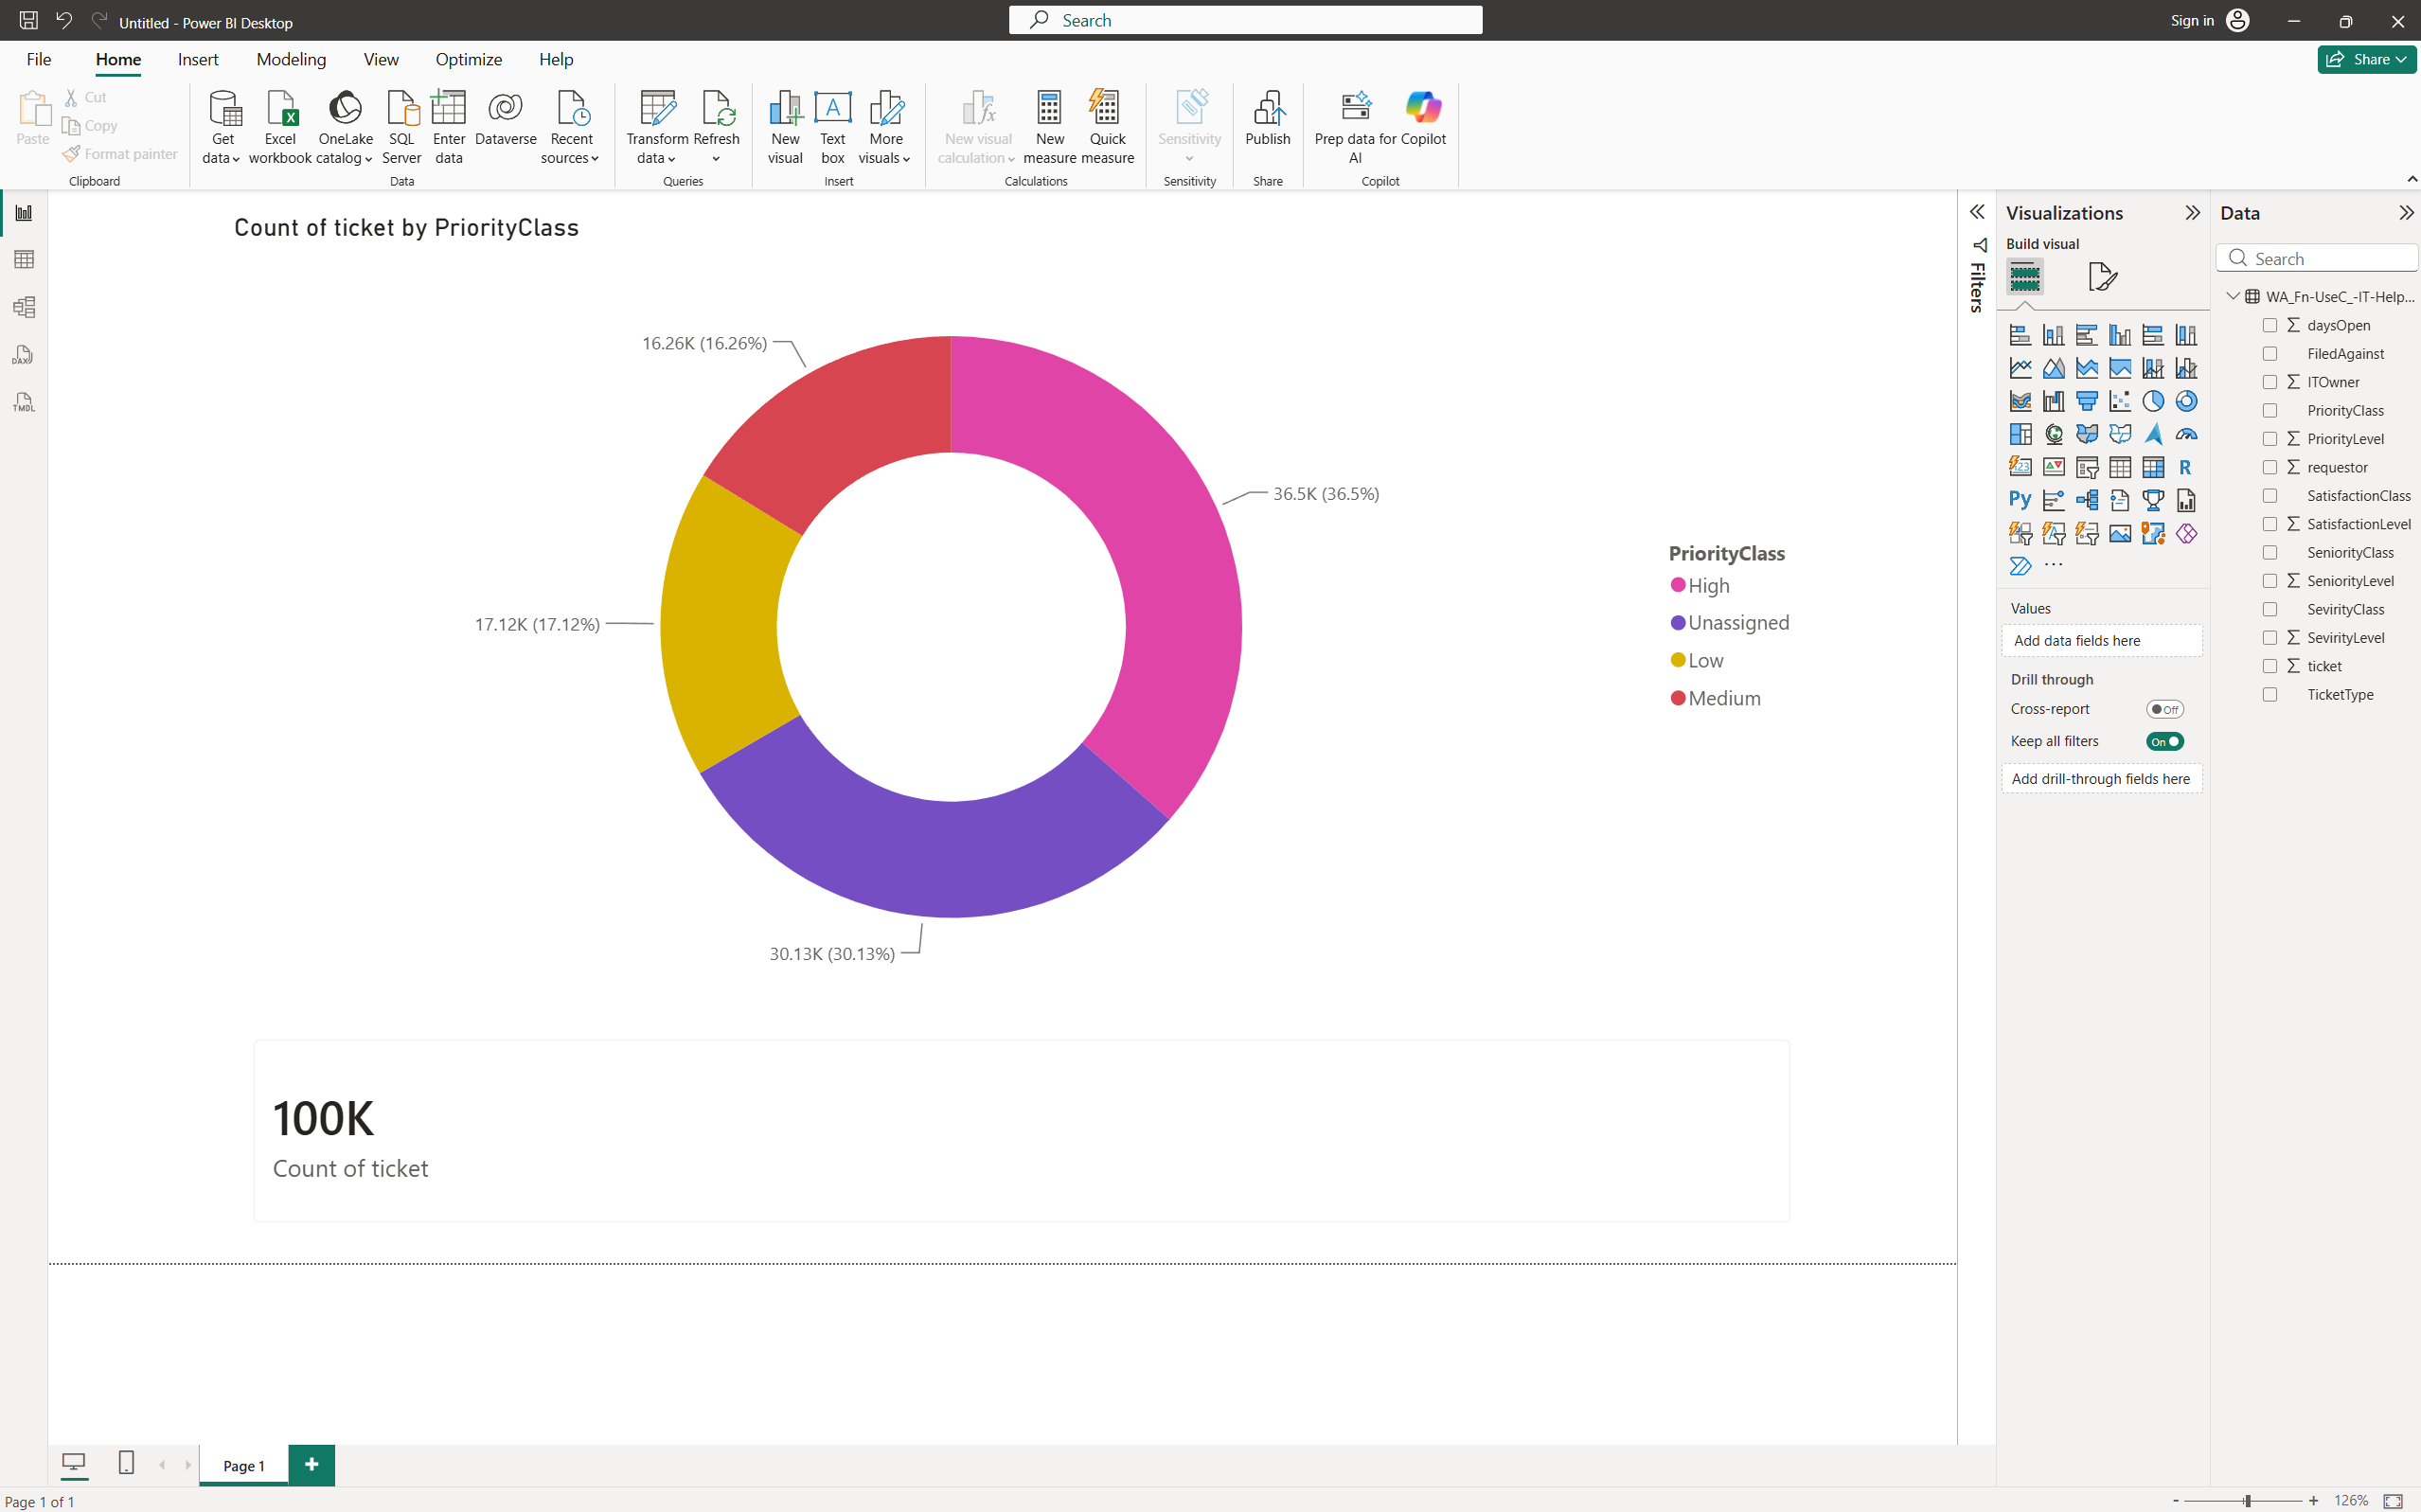
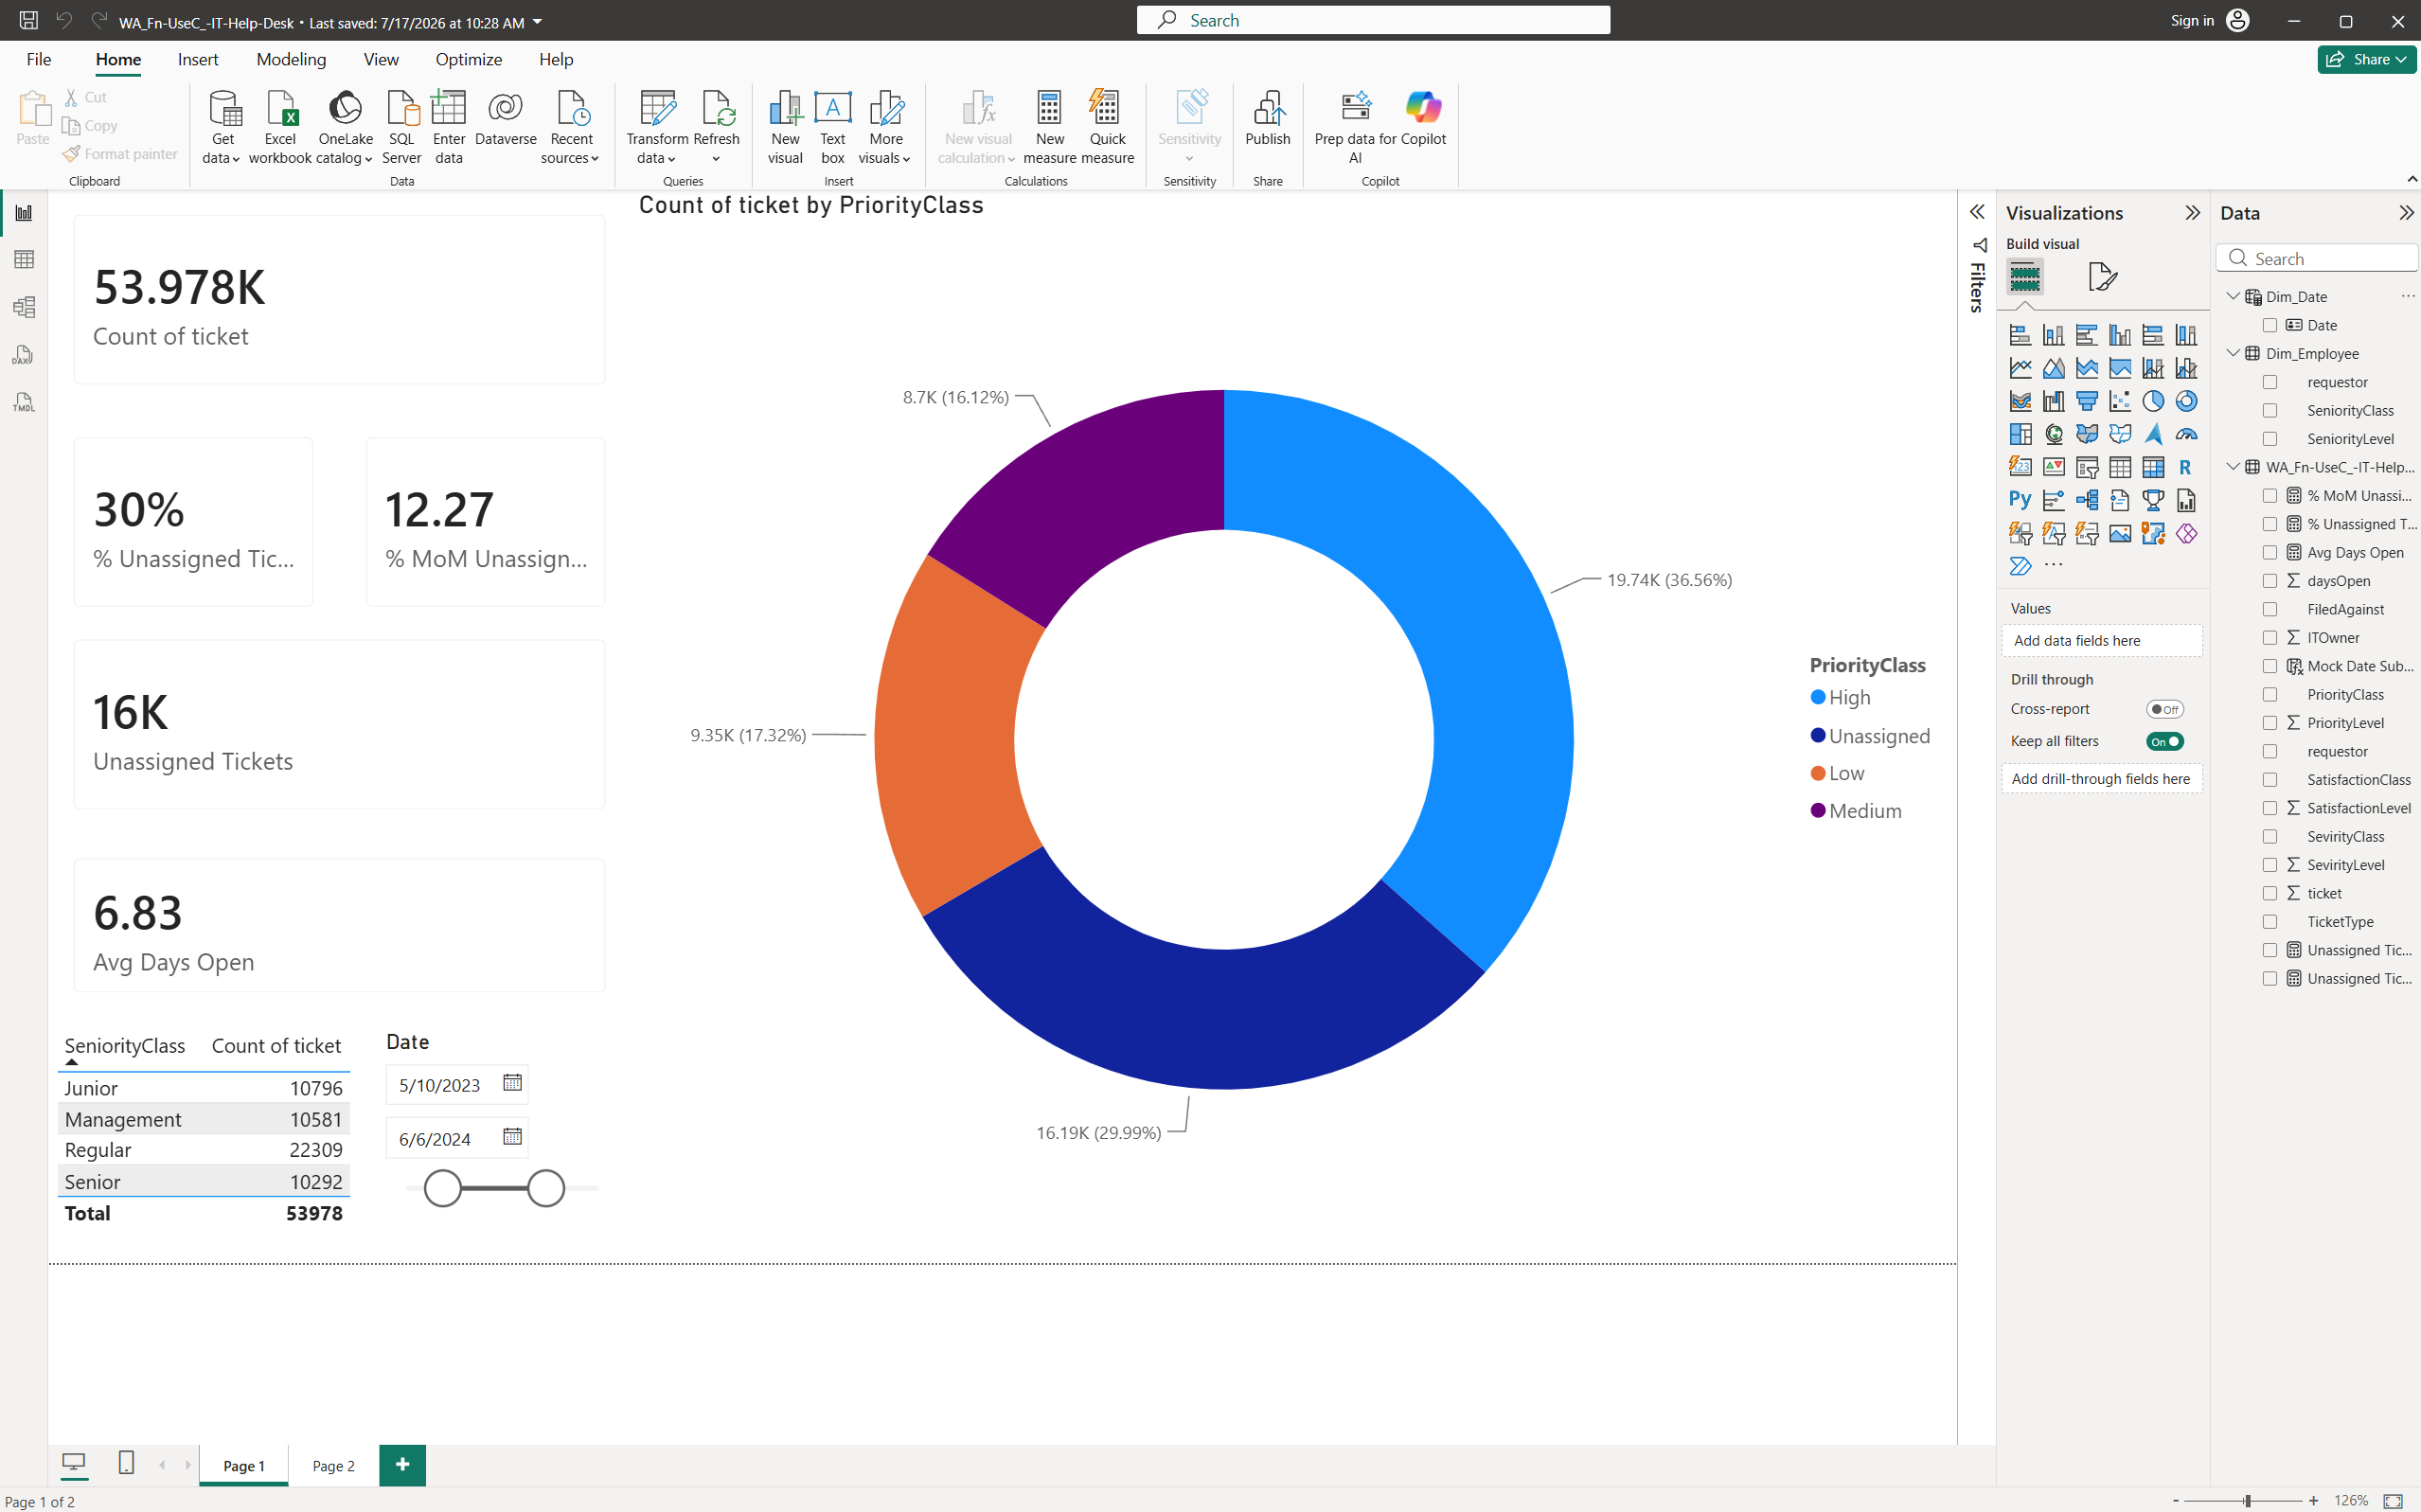
new feature

diff --git a/src/Portfolio.jsx b/src/Portfolio.jsx
@@ -1,6 +1,6 @@
 import React, { useState, useEffect, useRef } from 'react';
 import { motion, AnimatePresence, useScroll, useTransform } from 'framer-motion';
-import { ExternalLink, Mail, Phone, MapPin, X, Sparkles } from 'lucide-react';
+import { ExternalLink, Mail, Phone, MapPin, X, Sparkles, ChevronLeft, ChevronRight, Download } from 'lucide-react';
 
 // --- DATA PARA SA LOOPING PROJECTS & EXPERIENCE ---
 const experienceData = [
@@ -52,61 +52,31 @@ const designProjects = [
   { id: 6, img: '/samples/PRODUCT DESIGN 2.png', fullImg: '/samples/PRODUCT DESIGN 2.png', title: 'UI Concept Art', expl: 'Website interface visualization edited in Photoshop.' },
 ];
 
-// --- DATA PARA SA AUTOMATION SLIDESHOW ---
+// --- DATA PARA SA AUTOMATION SLIDESHOW (GROUPED AND COMPACT) ---
 const automationSlides = [
   { 
     id: 1, 
     img: '/samples/idp1.png', 
+    gallery: ['/samples/idp1.png', '/samples/idp2.png'],
     title: 'Intelligent Document Processing', 
-    desc: 'Automated data extraction workflow routing using AI Builder. Engineered to significantly reduce manual data entry and improve accuracy across departments.' 
+    desc: 'Automated data extraction workflow routing using AI Builder. Engineered to significantly reduce manual data entry and improve accuracy across departments.',
+    downloadFile: null
   },
   { 
     id: 2, 
-    img: '/samples/idp2.png', 
-    title: 'Intelligent Document Processing', 
-    desc: 'Automated data extraction workflow routing using AI Builder. Engineered to significantly reduce manual data entry and improve accuracy across departments.' 
+    img: '/samples/bi1.png', 
+    gallery: ['/samples/bi1.png', '/samples/bi2.png', '/samples/bi3.png', '/samples/bi4.png'],
+    title: 'IT Helpdesk Analytics Dashboard', 
+    desc: 'Interactive Power BI dashboard tracking ticket volumes and KPIs. Cleaned raw dataset via Power Query Editor by splitting delimited columns and handling null values.',
+    downloadFile: 'YOUR_FILE_LINK_HERE.pdf' // <-- PALITAN MO ITO NG TOTOONG FILE LINK MO (ex. '/samples/PowerBI_Sample.pbix')
   },
   { 
     id: 3, 
-    img: '/samples/bi1.png', 
-    title: 'IT Helpdesk Analytics Dashboard', 
-    desc: 'Interactive Power BI dashboard tracking ticket volumes and KPIs. Cleaned raw dataset via Power Query Editor by splitting delimited columns and handling null values.' 
-  },
-   { 
-    id: 4, 
-    img: '/samples/bi2.png', 
-    title: 'IT Helpdesk Analytics Dashboard', 
-    desc: 'Interactive Power BI dashboard tracking ticket volumes and KPIs. Cleaned raw dataset via Power Query Editor by splitting delimited columns and handling null values.' 
-  },
-  { 
-    id: 5, 
-    img: '/samples/bi3.png', 
-    title: 'IT Helpdesk Analytics Dashboard', 
-    desc: 'Interactive Power BI dashboard tracking ticket volumes and KPIs. Cleaned raw dataset via Power Query Editor by splitting delimited columns and handling null values.' 
-  },
-  { 
-    id: 6, 
-    img: '/samples/bi4.png', 
-    title: 'IT Helpdesk Analytics Dashboard', 
-    desc: 'Interactive Power BI dashboard tracking ticket volumes and KPIs. Cleaned raw dataset via Power Query Editor by splitting delimited columns and handling null values.' 
-  },
-  { 
-    id: 7, 
     img: '/samples/pa1.png', 
+    gallery: ['/samples/pa1.png', '/samples/pa2.png', '/samples/pa3.png'],
     title: 'Enterprise Workflow Orchestration', 
-    desc: 'End-to-end task routing and polling triggers in Power Automate. Built complex logic to automate inter-departmental task routing and dynamic data synchronization.' 
-  },
-  { 
-    id: 8, 
-    img: '/samples/pa2.png', 
-    title: 'Enterprise Workflow Orchestration', 
-    desc: 'End-to-end task routing and polling triggers in Power Automate. Built complex logic to automate inter-departmental task routing and dynamic data synchronization.' 
-  },
-  { 
-    id: 9, 
-    img: '/samples/pa3.png', 
-    title: 'Enterprise Workflow Orchestration', 
-    desc: 'End-to-end task routing and polling triggers in Power Automate. Built complex logic to automate inter-departmental task routing and dynamic data synchronization.' 
+    desc: 'End-to-end task routing and polling triggers in Power Automate. Built complex logic to automate inter-departmental task routing and dynamic data synchronization.',
+    downloadFile: null
   }
 ];
 
@@ -183,7 +153,10 @@ const Portfolio = () => {
   // State para sa Fullscreen Design & Automation Images
   const [selectedDesign, setSelectedDesign] = useState(null);
   
-  // State for Automation Slideshow
+  // State para sa loob ng mini-gallery pag nakabukas na ang modal
+  const [modalGalleryIndex, setModalGalleryIndex] = useState(0);
+  
+  // State for Automation Slideshow Main Preview
   const [autoIndex, setAutoIndex] = useState(0);
 
   // Parallax Setup
@@ -192,7 +165,7 @@ const Portfolio = () => {
   const textY = useTransform(scrollY, [0, 800], [0, -150]); 
   const textOpacity = useTransform(scrollY, [0, 400], [1, 0]); 
 
-  // Automation Slideshow Auto-play (Slowed down to 10 seconds)
+  // Automation Slideshow Auto-play
   useEffect(() => {
     const autoTimer = setInterval(() => {
       setAutoIndex((prev) => (prev + 1) % automationSlides.length);
@@ -409,15 +382,19 @@ const Portfolio = () => {
           </div>
 
           <div className="flex flex-col lg:flex-row gap-10 lg:gap-16 items-center bg-gray-50 dark:bg-neutral-900/40 p-6 sm:p-10 rounded-[2rem] border border-gray-200 dark:border-gray-800 shadow-xl">
-            {/* LEFT: SLIDESHOW IMAGE (Now Clickable) */}
+            {/* LEFT: SLIDESHOW IMAGE (Now Clickable, opens mini-gallery) */}
             <div 
               className="w-full lg:w-3/5 relative aspect-video rounded-2xl overflow-hidden shadow-lg bg-black group cursor-pointer"
-              onClick={() => setSelectedDesign({
-                 fullImg: automationSlides[autoIndex].img,
-                 title: automationSlides[autoIndex].title,
-                 expl: automationSlides[autoIndex].desc,
-                 tag: 'Automation Showcase'
-              })}
+              onClick={() => {
+                setModalGalleryIndex(0); // Reset natin sa una ang gallery pag nag-open
+                setSelectedDesign({
+                   gallery: automationSlides[autoIndex].gallery,
+                   title: automationSlides[autoIndex].title,
+                   expl: automationSlides[autoIndex].desc,
+                   tag: 'Automation Showcase',
+                   downloadFile: automationSlides[autoIndex].downloadFile
+                });
+              }}
             >
               <AnimatePresence mode="wait">
                 <motion.img
@@ -498,7 +475,10 @@ const Portfolio = () => {
                                 animate={{ rotate: [-angle, -angle - 360] }}
                                 transition={{ duration: 30, ease: "linear", repeat: Infinity }}
                                 whileHover={{ scale: 1.15, zIndex: 50 }}
-                                onClick={() => setSelectedDesign(proj)}
+                                onClick={() => {
+                                    setModalGalleryIndex(0); // Reset natin in case ito rin gagamit ng modal
+                                    setSelectedDesign(proj);
+                                }}
                             >
                                 <img src={proj.img} alt={proj.title} className="w-full h-full object-cover" />
                             </motion.div>
@@ -546,7 +526,7 @@ const Portfolio = () => {
         </div>
       </footer>
 
-      {/* --- BAGONG CINEMATIC POP-OUT MODAL PARA SA LAHAT --- */}
+      {/* --- BAGONG CINEMATIC POP-OUT MODAL (WITH MINI GALLERY & DOWNLOAD) --- */}
       <AnimatePresence>
         {selectedDesign && (
           <motion.div initial={{ opacity: 0 }} animate={{ opacity: 1 }} exit={{ opacity: 0 }} onClick={() => setSelectedDesign(null)} className="fixed inset-0 z-[100] bg-black/95 backdrop-blur-md p-4 flex items-center justify-center cursor-pointer">
@@ -564,21 +544,59 @@ const Portfolio = () => {
                 
                 {/* IMAGE/VIDEO AREA (FULL WIDTH & CINEMATIC) */}
                 <div className="w-full bg-black flex items-center justify-center p-4 sm:p-8 min-h-[40vh] border-b border-gray-200 dark:border-gray-800 relative group">
-                    {selectedDesign.video ? (
+                    {/* Kung ito ay may Gallery (katulad ng Automation) */}
+                    {selectedDesign.gallery ? (
+                        <div className="relative w-full h-full flex items-center justify-center">
+                            <img src={selectedDesign.gallery[modalGalleryIndex]} alt={selectedDesign.title} className="max-w-full max-h-[60vh] object-contain rounded-lg" />
+                            
+                            {/* Buttons for next/prev picture */}
+                            {selectedDesign.gallery.length > 1 && (
+                                <>
+                                    <button onClick={(e) => { e.stopPropagation(); setModalGalleryIndex(prev => prev === 0 ? selectedDesign.gallery.length - 1 : prev - 1); }} className="absolute left-2 sm:left-6 p-2 sm:p-3 bg-black/60 hover:bg-rose-600 text-white rounded-full transition-colors z-20 shadow-md">
+                                        <ChevronLeft size={24} />
+                                    </button>
+                                    <button onClick={(e) => { e.stopPropagation(); setModalGalleryIndex(prev => prev === selectedDesign.gallery.length - 1 ? 0 : prev + 1); }} className="absolute right-2 sm:right-6 p-2 sm:p-3 bg-black/60 hover:bg-rose-600 text-white rounded-full transition-colors z-20 shadow-md">
+                                        <ChevronRight size={24} />
+                                    </button>
+                                    {/* Mga tuldok sa baba ng picture */}
+                                    <div className="absolute bottom-4 flex gap-2 z-20">
+                                        {selectedDesign.gallery.map((_, i) => (
+                                            <div key={i} className={`w-2 sm:w-3 h-2 sm:h-3 rounded-full transition-all ${i === modalGalleryIndex ? 'bg-rose-600 scale-125' : 'bg-white/50'}`} />
+                                        ))}
+                                    </div>
+                                </>
+                            )}
+                        </div>
+                    ) : selectedDesign.video ? (
+                        /* Kung ito ay ordinaryong Video (tulad ng 3D airpods) */
                         <video src={selectedDesign.video} controls autoPlay loop className="max-w-full max-h-[60vh] object-contain rounded-lg" />
                     ) : (
+                        /* Kung ito ay ordinaryong solong Image */
                         <img src={selectedDesign.fullImg} alt={selectedDesign.title} className="max-w-full max-h-[60vh] object-contain rounded-lg" />
                     )}
                 </div>
 
-                {/* TEXT AREA SA ILALIM */}
+                {/* TEXT AREA SA ILALIM (Kasama ang Download Button) */}
                 <div className="p-6 sm:p-10 overflow-y-auto">
                     <h3 className="text-2xl sm:text-3xl lg:text-4xl font-black text-black dark:text-white tracking-tighter uppercase mb-4">{selectedDesign.title}</h3>
                     <p className="text-base sm:text-lg text-gray-600 dark:text-gray-400 leading-relaxed font-light">{selectedDesign.expl}</p>
-                    <div className="pt-6">
+                    
+                    <div className="pt-6 flex flex-wrap gap-4 items-center">
                         <span className="px-4 py-1.5 rounded-full bg-rose-100 dark:bg-rose-950/30 text-rose-800 dark:text-rose-500 text-xs font-semibold border border-rose-200 dark:border-rose-900">
                             {selectedDesign.tag || "Design Sample"}
                         </span>
+
+                        {/* ITO YUNG DOWNLOAD BUTTON NA HINAHANAP MO */}
+                        {selectedDesign.downloadFile && (
+                            <a 
+                                href={selectedDesign.downloadFile} 
+                                download 
+                                onClick={(e) => e.stopPropagation()} // Para hindi magsara yung modal pag kinlick
+                                className="flex items-center gap-2 px-5 py-2 rounded-full bg-rose-800 hover:bg-rose-700 text-white text-sm font-bold shadow-[0_0_15px_rgba(159,18,57,0.5)] hover:shadow-[0_0_25px_rgba(159,18,57,0.8)] hover:scale-105 transition-all"
+                            >
+                                <Download size={16} /> Download Sample File
+                            </a>
+                        )}
                     </div>
                 </div>
             </motion.div>